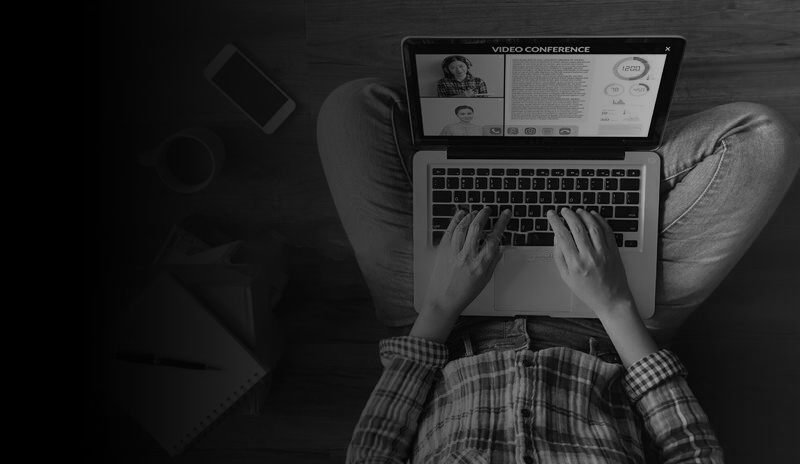
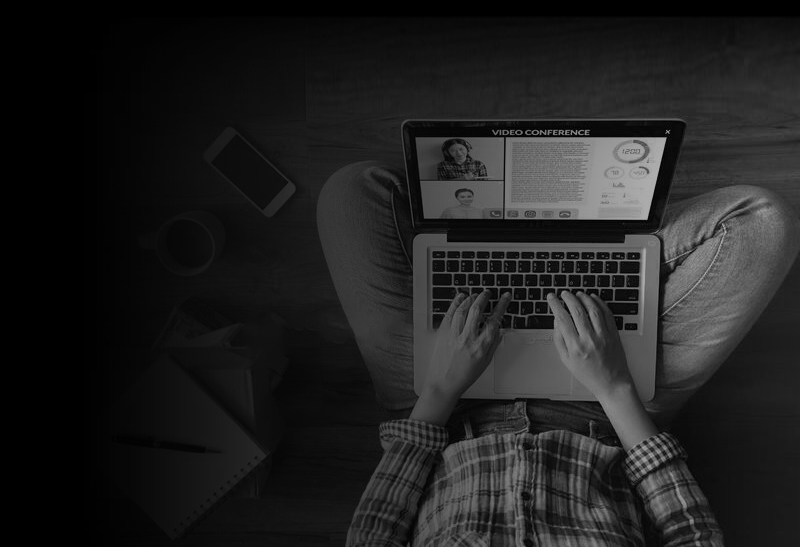
new home screen - in progress

diff --git a/src/index.css b/src/index.css
@@ -6,6 +6,11 @@
   font-family: "Open Sans", sans-serif;
 }
 
+.root, .App{
+  margin: 0px 0px 0px 0px;
+  padding: 0px 0px 0px 0px;
+
+}
 
 
 
@@ -48,6 +53,42 @@
 
 }
 
+
+/*Navbar Wide*/
+
+.navbarwide{
+  background-color: rgba(35, 35, 35, 0);
+  color: black;
+  padding: 10px 100px 10px 100px;
+  display: flex;
+  align-items: center;
+  margin: 0 auto;
+}
+
+
+.navbarwide .links{
+  margin-left: auto;
+}
+
+.navbarwide a{
+  color: white;
+  margin-left: 16px;
+  text-decoration: none;
+  padding: 6px;
+  font-size: 20px;
+  font-weight: 700px;
+}
+
+.navbarwide h2{
+  font-size: 30px;
+  font-weight: 900px;
+  color: white;
+  margin-left: 16px;
+  text-decoration: none;
+  padding: 6px;
+}
+
+
 .signup, .login, .postjob  {
 
   max-width: 400px;
@@ -60,10 +101,6 @@
   text-align: center;
 
 }
-
-
-
-
 
 .profilecard{
 
@@ -406,6 +443,16 @@ display: block;
   width: 100%;
 }
 
+
+.homewide {
+  font-family: "Open Sans", sans-serif;
+  margin: 0 auto;
+  align-content: center;
+  align-items: center;
+  width: 100%;
+}
+
+
 .browsejobs{
   max-width: 800px;
   font-family: "Open Sans", sans-serif;
@@ -439,6 +486,21 @@ display: block;
   width: 100%;
   background-image: url('/public/home-image.jpg');
 }
+
+#homewide-img {
+  align-self: center;
+  align-items: center;
+  color: rgb(255, 255, 255);
+  height: 900px;
+  width: 100%;
+  background-image: url('/public/home-image.jpg');
+  background-repeat: no-repeat;
+  background-size:cover;
+  margin: 0px 0px 0px 0px;
+  padding: 0px 0px 0px 0px;
+}
+
+
 #home-img-txt-1{
   font-size: 40px;
   font-weight: 900;
